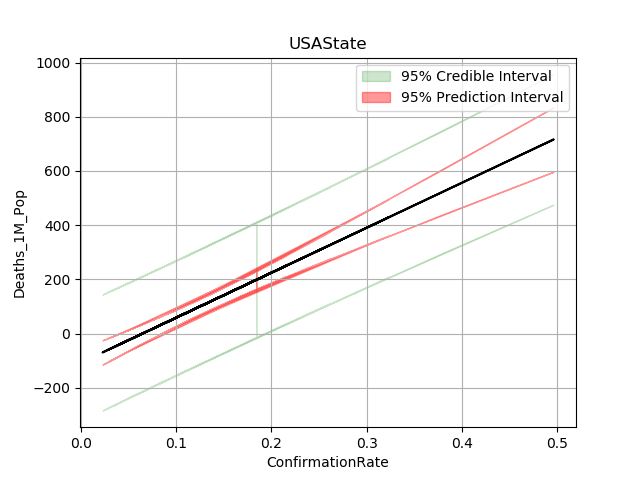
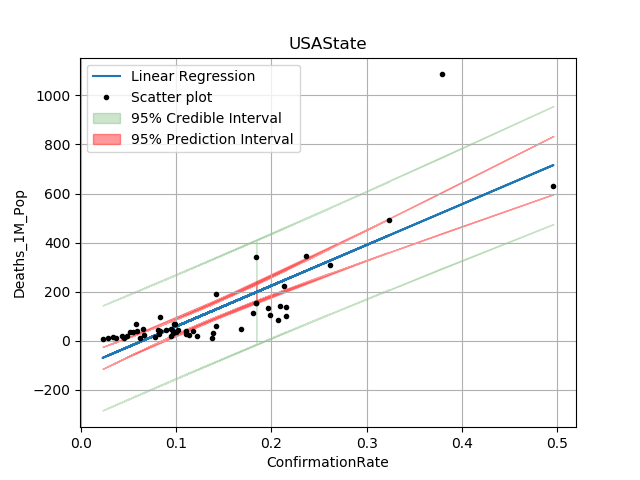
Adding Prediction interval

diff --git a/Python/Statistics/LinearRegression.py b/Python/Statistics/LinearRegression.py
@@ -1,6 +1,5 @@
 import numpy as np
 from scipy.stats import t
-from scipy.stats import gamma
 import matplotlib.pyplot as plt
 
 from Statistics.LinearRegressionBase import LinearRegressionBase
@@ -58,10 +57,11 @@ class LinearRegression(LinearRegressionBase):
             ci = self.Interval(0.05)
 
         plt.grid(True)
-        plt.plot(self.X, self.y, color='black')
+        plt.plot(self.X, self.y, label='Linear Regression')
 
         if pred:
             plt.fill_between(self.X, self.PI[0], self.PI[1], color='g', alpha=.2, label='95% Credible Interval')
+            plt.plot(self.X, self.Y, 'k.', label='Scatter plot')
 
         plt.fill_between(self.X, self.CI[0], self.CI[1], color='r', alpha=.4, label='95% Prediction Interval')
 

diff --git a/Python/main.py b/Python/main.py
@@ -1,9 +1,5 @@
-import numpy as np
-from scipy.stats import t
 from DataHandling import DataHandler
 from Statistics.LinearRegression import LinearRegression
-from Statistics.LinearRegressionCentered import LinearRegressionCentered
-
 
 all_url = "https://covid19-server.chrismichael.now.sh/api/v1/AllReports"
 us_url = "https://covid19-server.chrismichael.now.sh/api/v1/CasesInAllUSStates"
